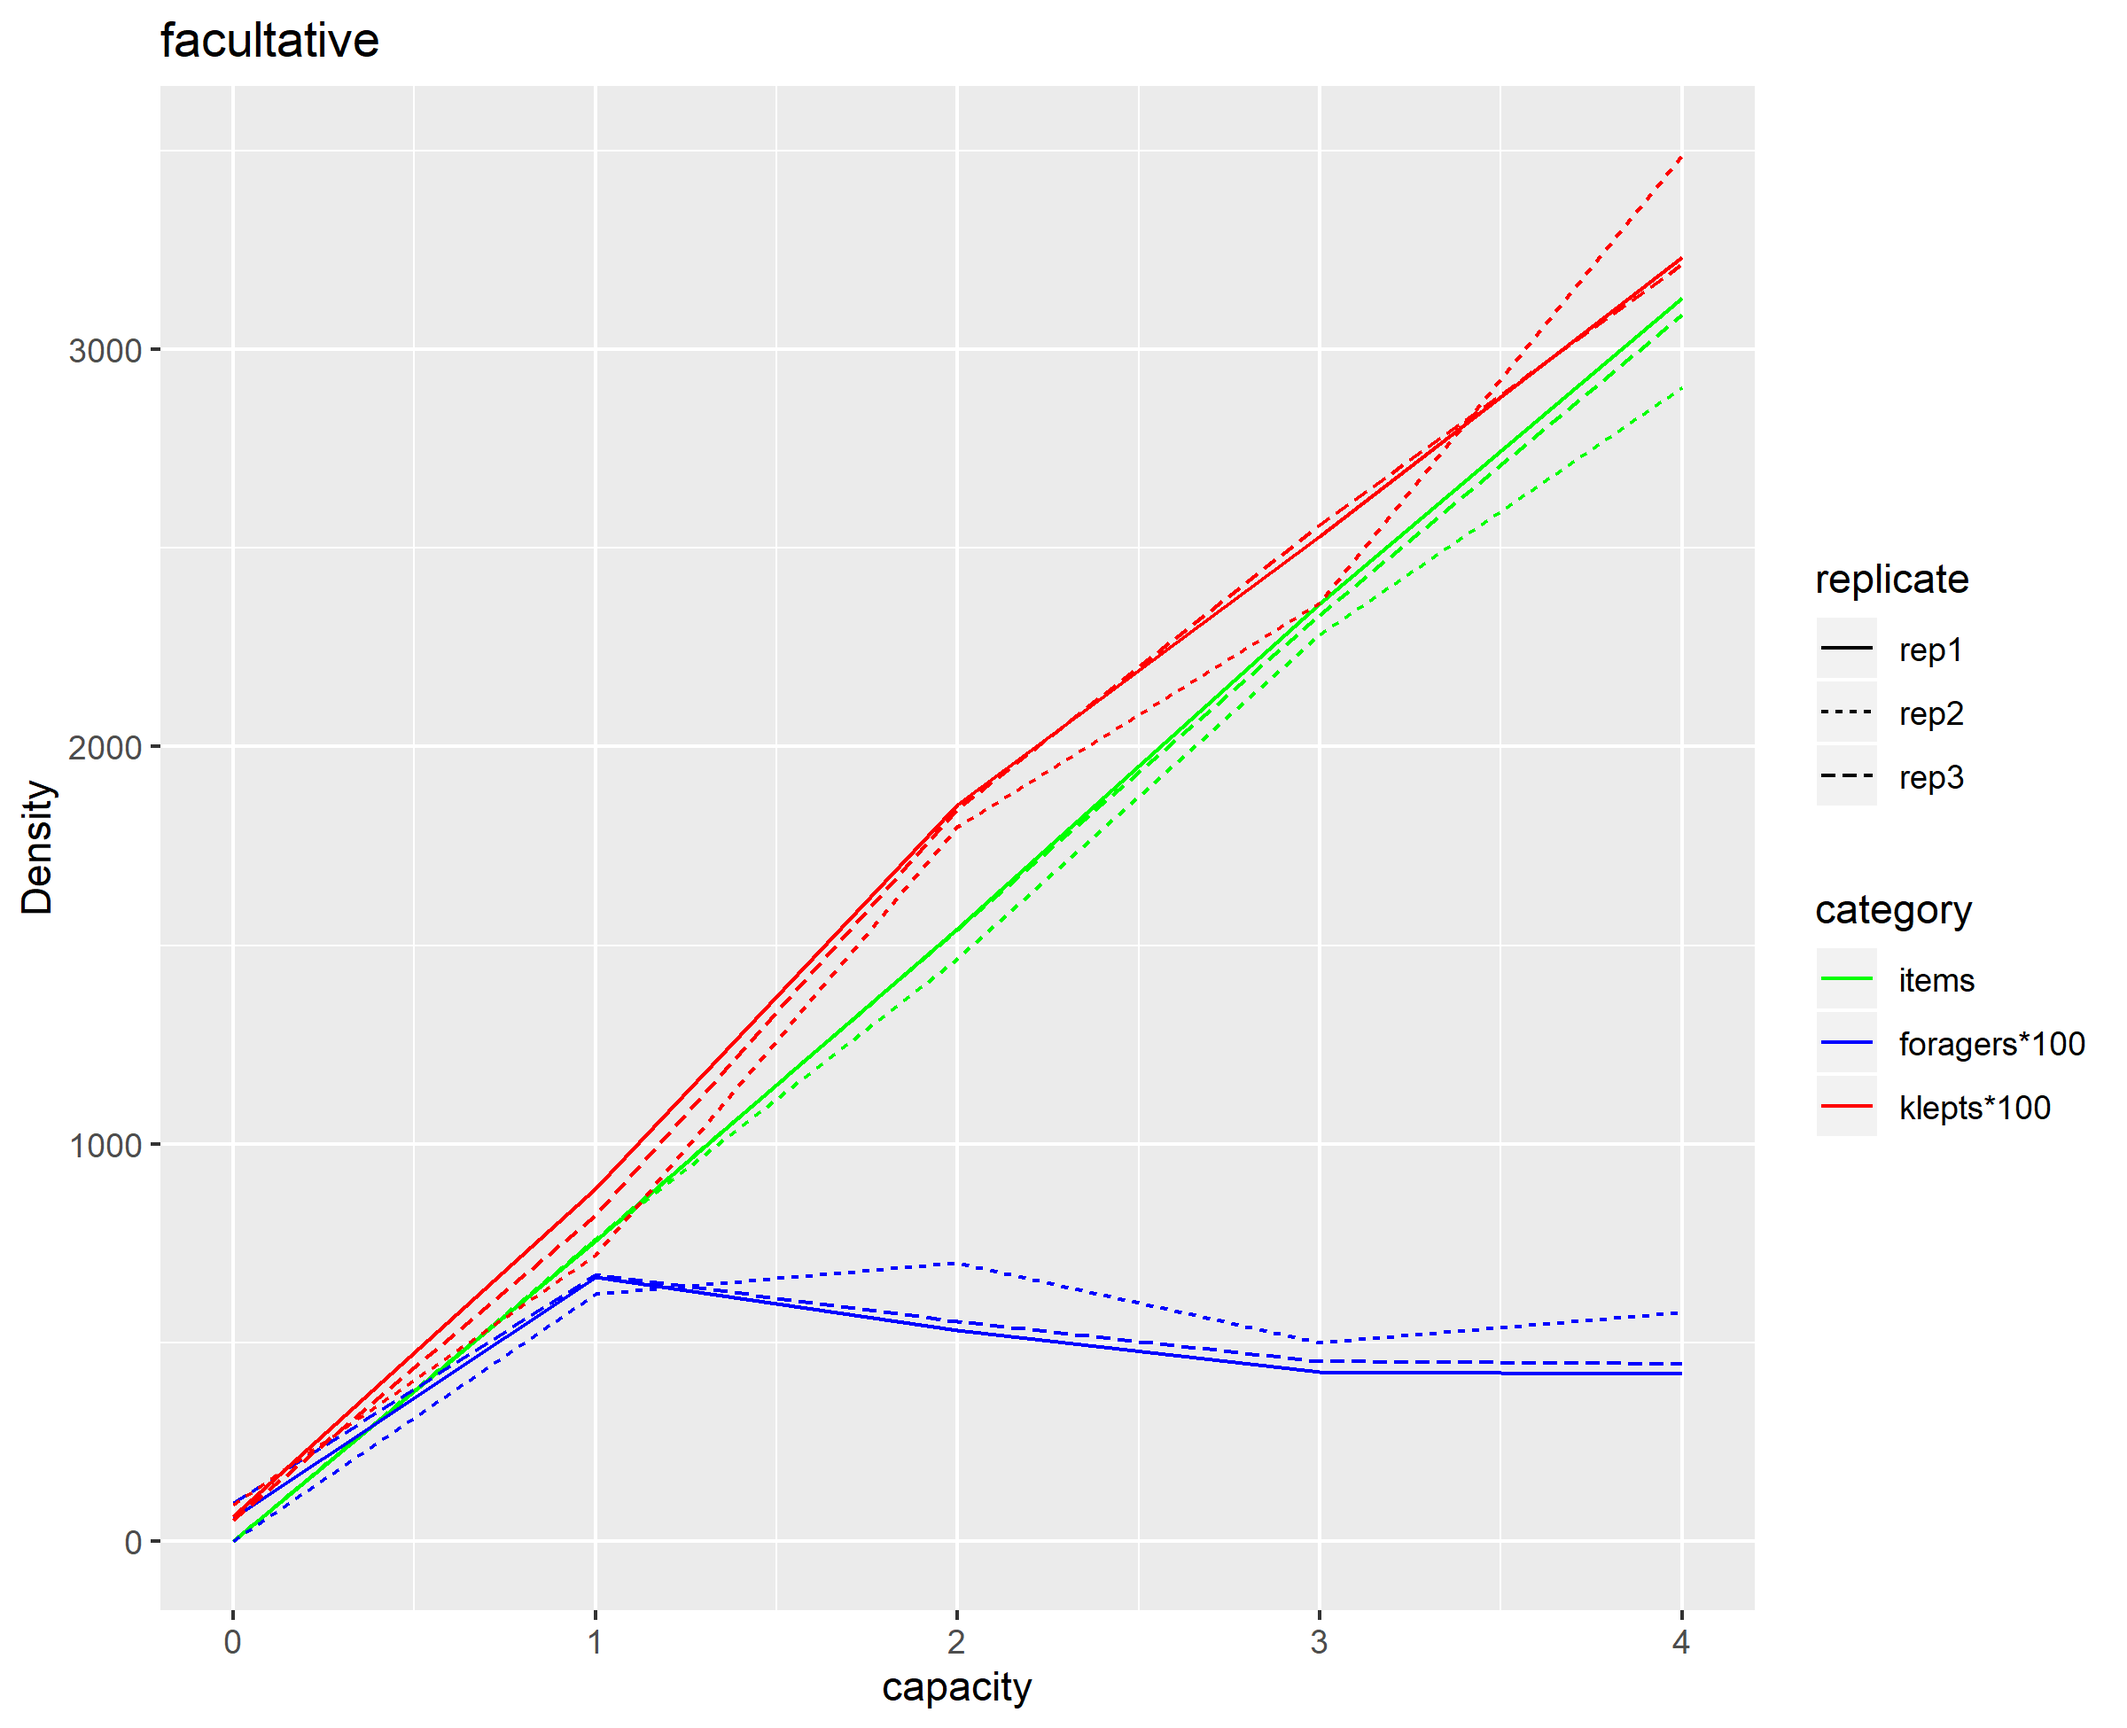
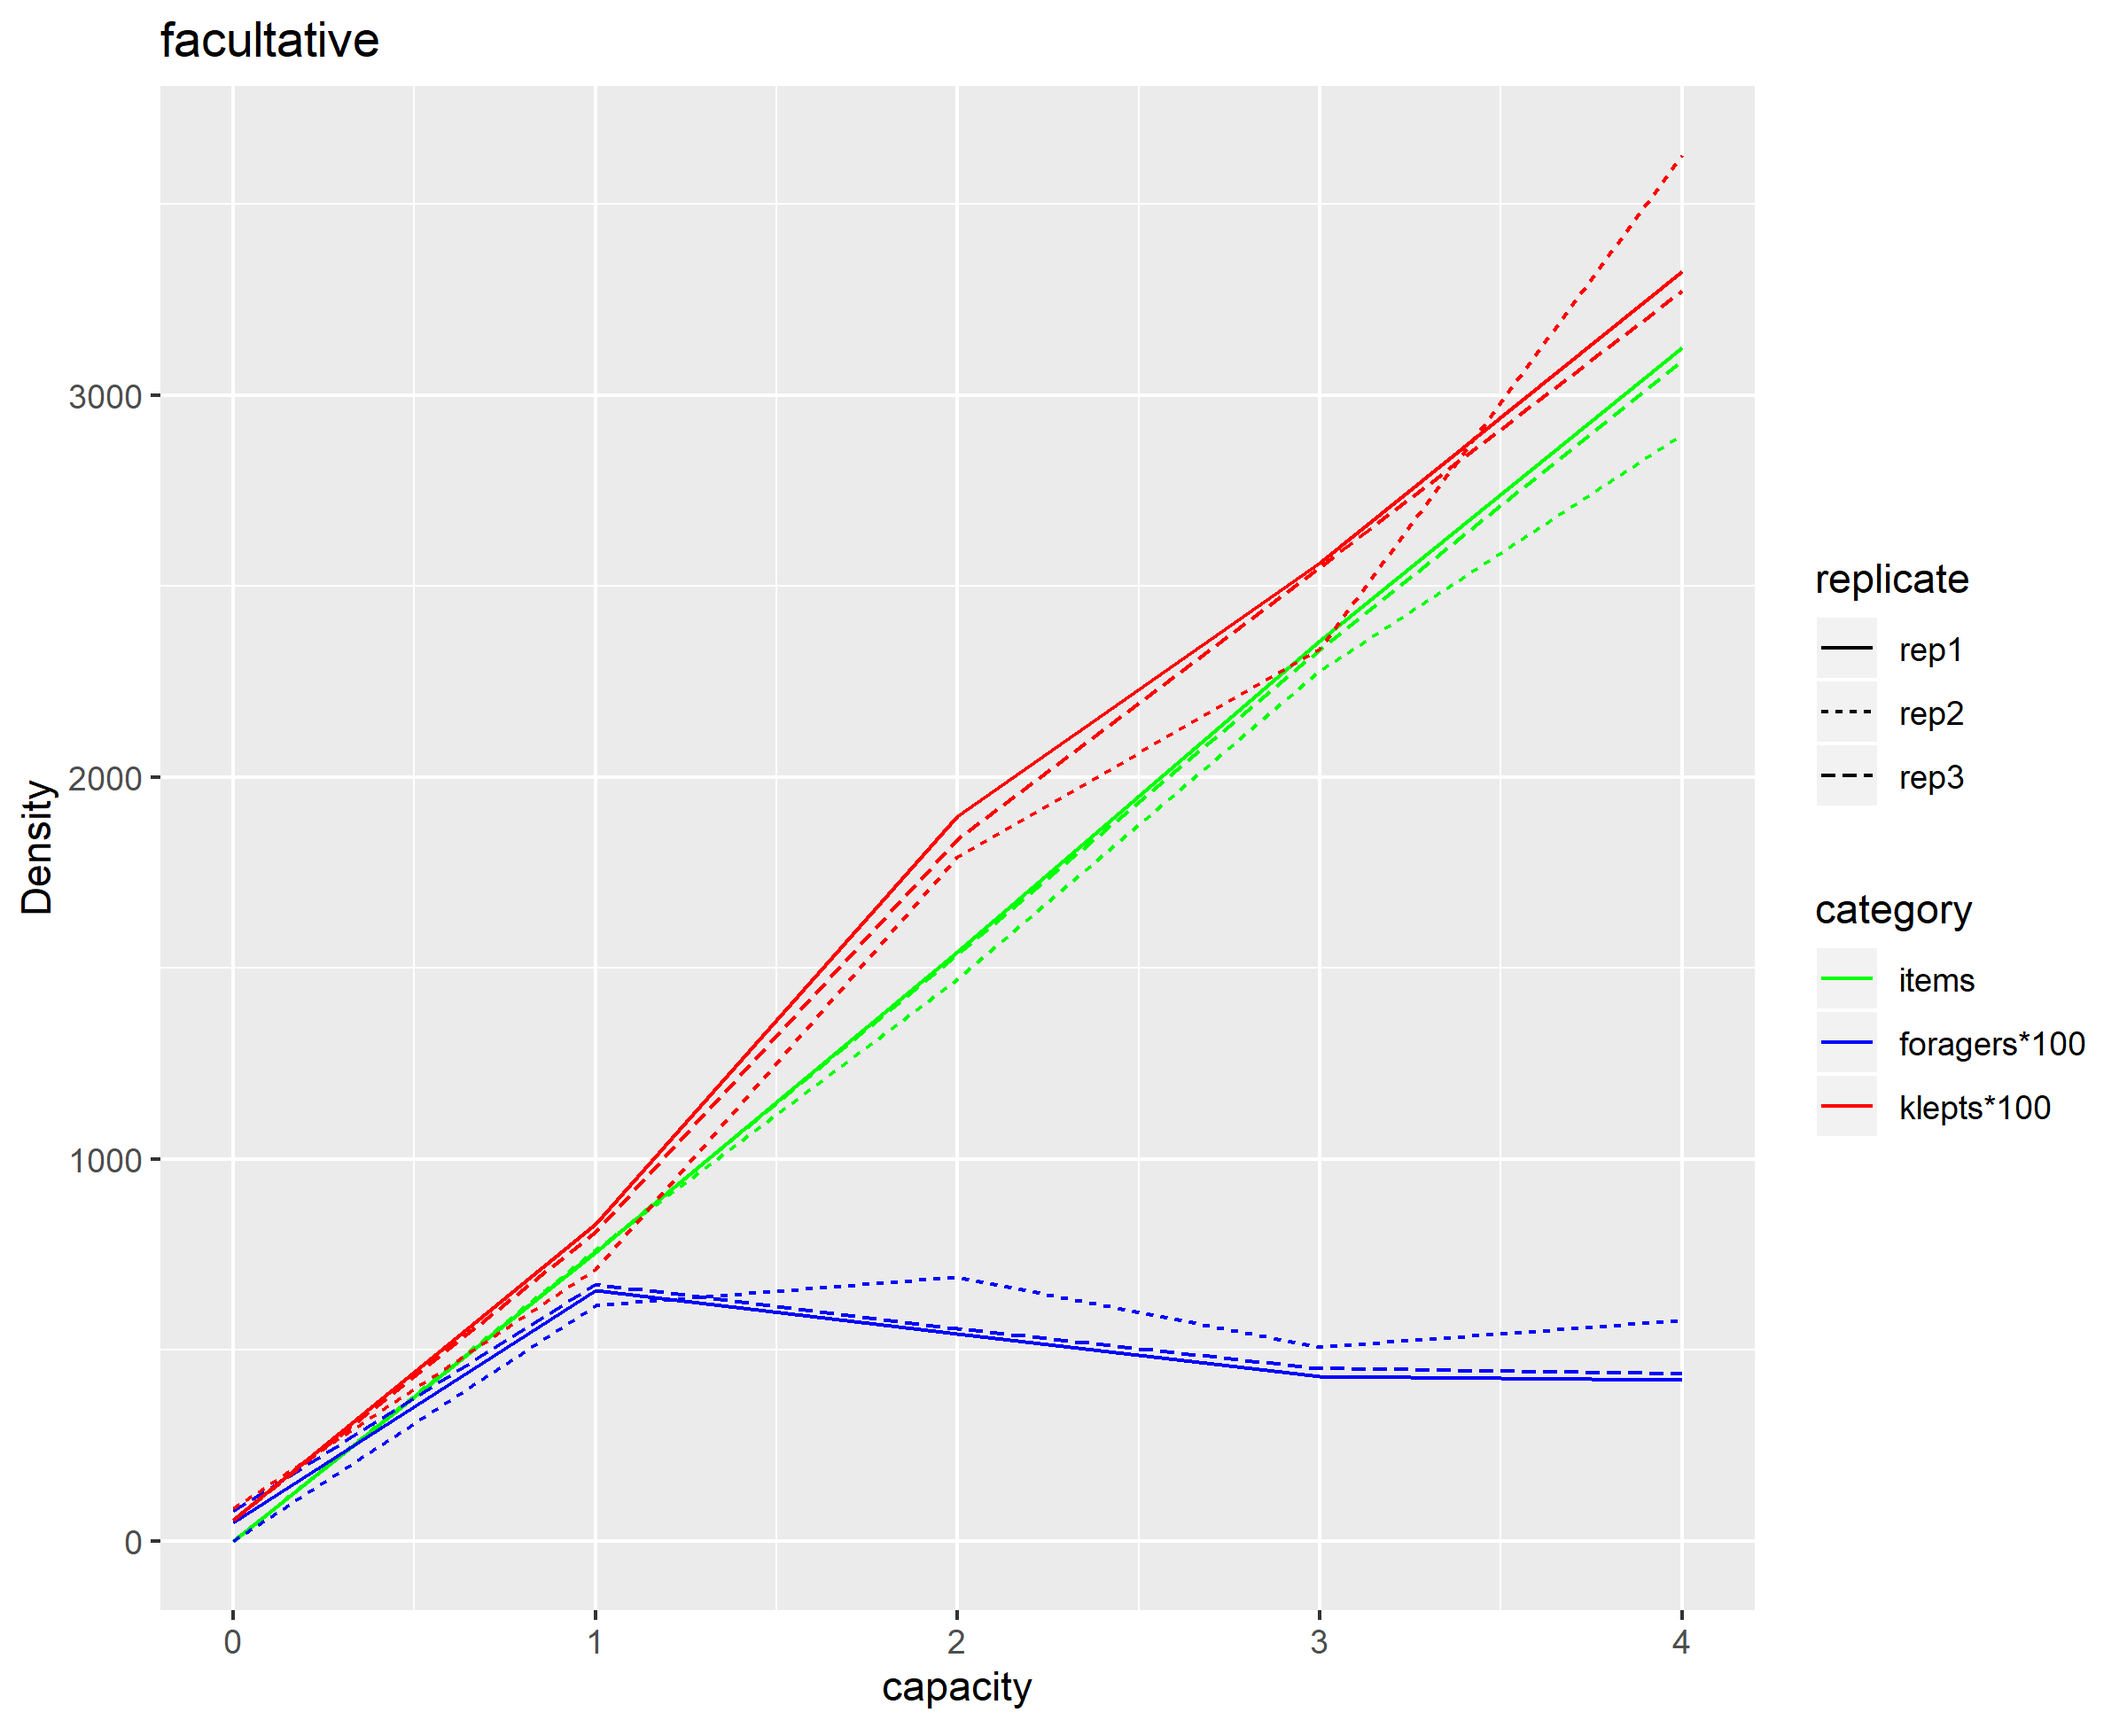
bug in landscapes.r fixed, added obligate foraging as a parameter

diff --git a/cine/simulation.cpp b/cine/simulation.cpp
@@ -218,23 +218,23 @@ namespace cine2 {
         const std::string stritems = std::string(std::to_string(g_) + param_.outdir + "items.txt");
         const std::string strforagers = std::string(std::to_string(g_) + param_.outdir + "foragers.txt");
         const std::string strklepts = std::string(std::to_string(g_) + param_.outdir + "klepts.txt");
-        const std::string strcapacity = std::string(std::to_string(g_) + param_.outdir + "capacity.txt");
+        //const std::string strcapacity = std::string(std::to_string(g_) + param_.outdir + "capacity.txt");
         std::ofstream writeoutitems(stritems);
         std::ofstream writeoutforagers(strforagers);
         std::ofstream writeoutklepts(strklepts);
-        std::ofstream writeoutcapacity(strcapacity);
+        //std::ofstream writeoutcapacity(strcapacity);
 
         layer_to_text(landscape_[Landscape::Layers::items_rec], writeoutitems);
         layer_to_text(landscape_[Landscape::Layers::foragers_rec], writeoutforagers);
         layer_to_text(landscape_[Landscape::Layers::klepts_rec], writeoutklepts);
-        layer_to_text(landscape_[Landscape::Layers::capacity], writeoutcapacity);
+        //layer_to_text(landscape_[Landscape::Layers::capacity], writeoutcapacity);
 
 
 
         writeoutitems.close();
         writeoutforagers.close();
         writeoutklepts.close();
-        writeoutcapacity.close();
+        //writeoutcapacity.close();
       }
 
       assess_fitness();

diff --git a/cine/parameter.cpp b/cine/parameter.cpp
@@ -39,6 +39,7 @@ namespace cine2 {
     clp_required(agents.ann);
 
     clp_optional_val(agents.obligate, false);
+    clp_optional_val(agents.forage, false);
     clp_optional_val(agents.sprout_radius, 10000);
     clp_optional_val(agents.flee_radius, 10);
     clp_optional_val(agents.handling_time, 5);
@@ -124,6 +125,7 @@ namespace cine2 {
     stream(agents.L);
     stream_str(agents.ann);
     stream(agents.obligate);
+    stream(agents.forage);
     stream(agents.sprout_radius);
     stream(agents.flee_radius);
     stream(agents.handling_time);

diff --git a/cine/any_ann.cpp b/cine/any_ann.cpp
@@ -167,7 +167,13 @@ namespace cine2 {
           std::bernoulli_distribution s_decision(s_prob);							//this become the probability of adopting foraging strategy
 		  pop[p].forage = s_decision(rnd::reng);				//if condition apply, foraging of agent set to TRUE
 		  */
-          pop[p].forage(true/*it->eval2 >= 0*/);
+          if (iparam.forage) {
+            pop[p].forage(true);
+          }
+          else {
+           pop[p].forage(it->eval2 >= 0);
+
+          }
 		  
         }
       }

diff --git a/cine/parameter.h b/cine/parameter.h
@@ -70,6 +70,7 @@ namespace cine2 {
       std::string ann;
 
       bool obligate;
+      bool forage;
       int sprout_radius;
       int flee_radius;
       int handling_time;
